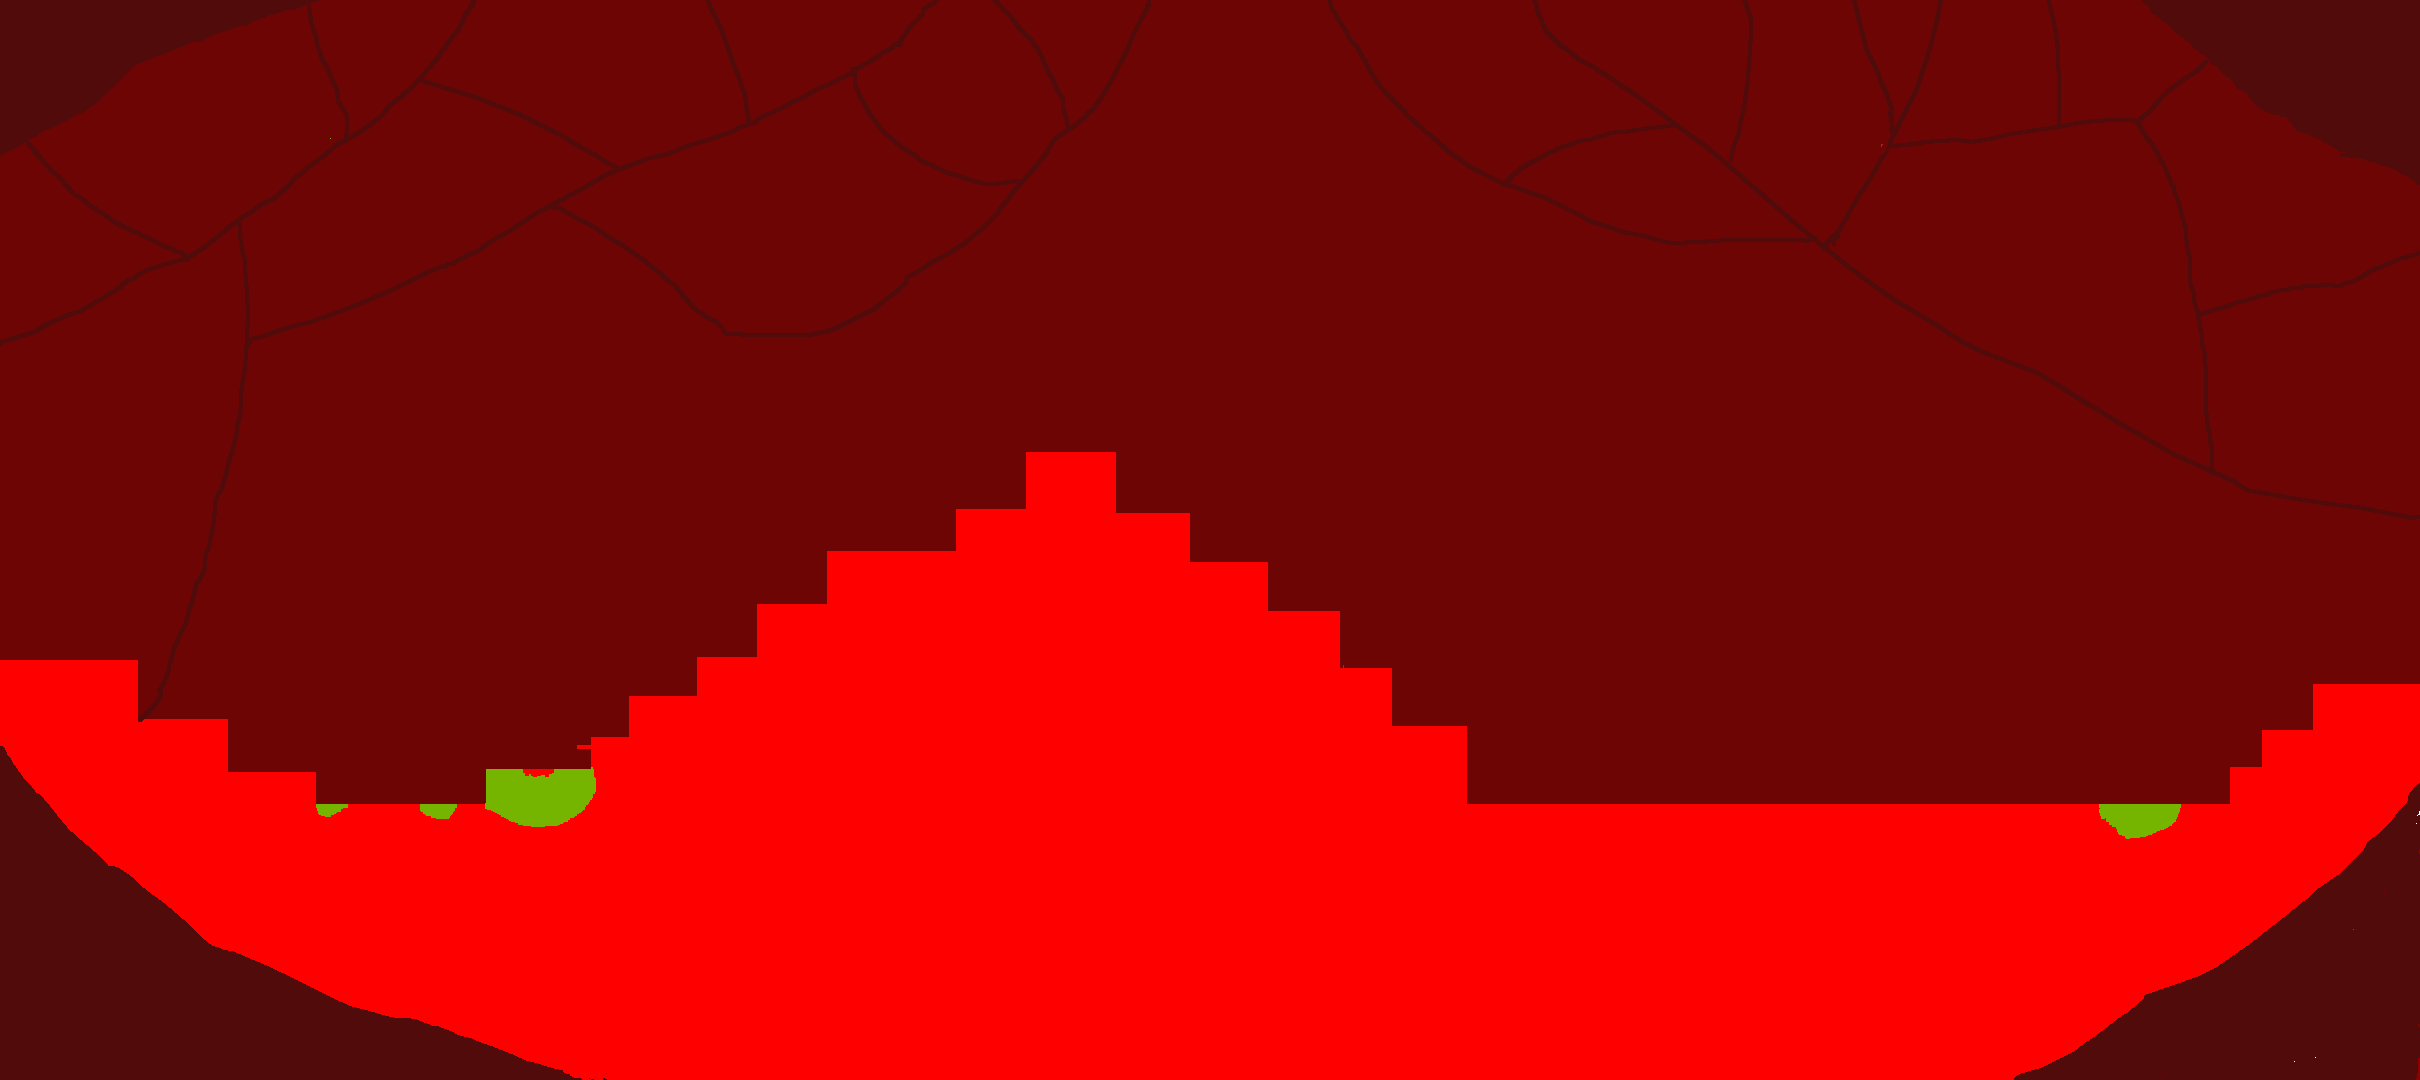
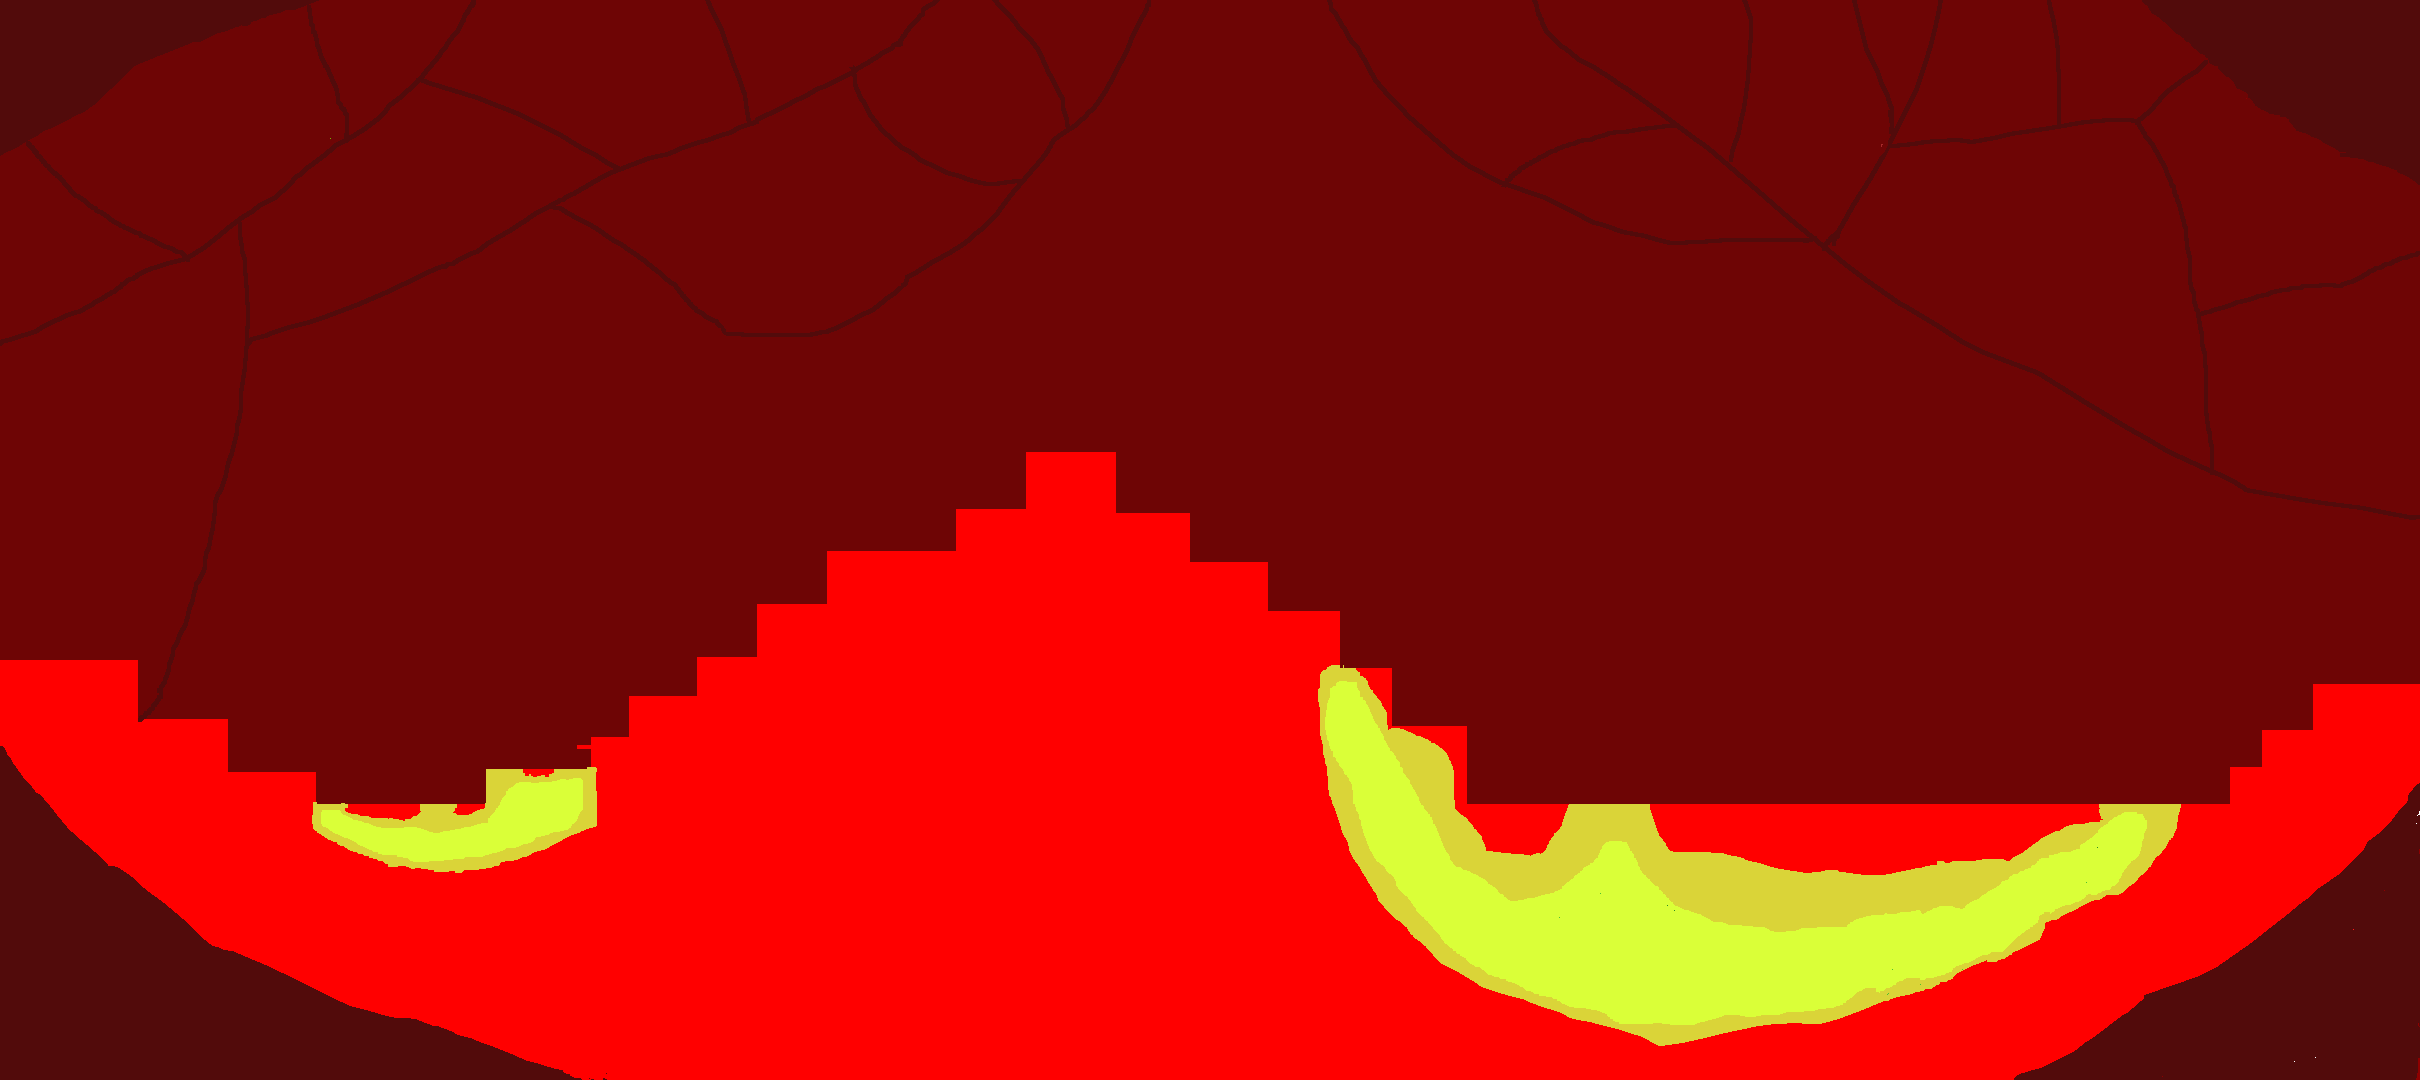
Atualiza projeto: renomeia arquivos e adiciona novas imagens

Changed region(s): [[0.5269, 0.6111, 0.8988, 0.9778], [0.124, 0.7028, 0.2479, 0.825]]

diff --git a/Projeto/Main.c b/Projeto/Main.c
@@ -9,14 +9,14 @@ int TelaInicial(int tela) {
     al_install_mouse();
     al_install_keyboard();
 
-    ALLEGRO_DISPLAY* janela = al_create_display(1920, 1080);
+    ALLEGRO_DISPLAY* janela = al_create_display(1600, 900);
     ALLEGRO_BITMAP* fundo_Inicial = al_load_bitmap("Página_InicialNova.png");
     ALLEGRO_BITMAP* fundoInstr = al_load_bitmap("Página_Instruções.png");
     ALLEGRO_BITMAP* fundoCreditos = al_load_bitmap("Página_creditos.png");
     ALLEGRO_EVENT_QUEUE* fila = al_create_event_queue();
     al_register_event_source(fila, al_get_mouse_event_source());
     al_register_event_source(fila, al_get_keyboard_event_source());
-    al_draw_bitmap(fundo_Inicial, 0, 0, 0);
+    al_draw_scaled_bitmap(fundo_Inicial , 0, 0,1920,1080 , 0, 0, 1600, 900, 0);
     while (!sair) {
         ALLEGRO_EVENT evento;
         while (al_get_next_event(fila, &evento)) {
@@ -31,15 +31,15 @@ int TelaInicial(int tela) {
             }
             if (tela == 0) {
                 if (evento.type == ALLEGRO_EVENT_MOUSE_BUTTON_DOWN) {
-                    if ((evento.mouse.x >= 768 && evento.mouse.x <= 1140) && evento.mouse.y >= 636 && evento.mouse.y <= 812) {
+                    if ((evento.mouse.x >= 645 && evento.mouse.x <= 931) && evento.mouse.y >= 583 && evento.mouse.y <= 701) {
                         sair = true;
-                        tela = 2;
+                        tela = 3;
                     }
-                    if ((evento.mouse.x >= 770 && evento.mouse.x <= 1153) && evento.mouse.y >= 842 && evento.mouse.y <= 928) {
+                    if ((evento.mouse.x >= 642 && evento.mouse.x <= 961) && evento.mouse.y >= 732 && evento.mouse.y <= 804) {
                         tela = 1;
                         al_rest(0.3);
                     }
-                    if ((evento.mouse.x >= 1733 && evento.mouse.x <= 1864) && evento.mouse.y >= 893 && evento.mouse.y <= 1017) {
+                    if ((evento.mouse.x >= 1442 && evento.mouse.x <= 1544) && evento.mouse.y >= 734 && evento.mouse.y <= 845) {
                         tela = 6;
 
                     }
@@ -49,14 +49,14 @@ int TelaInicial(int tela) {
         }
         al_clear_to_color(al_map_rgb(0, 0, 0));
         if (tela == 0)
-            al_draw_bitmap(fundo_Inicial, 0, 0, 0);
+            al_draw_scaled_bitmap(fundo_Inicial, 0, 0, 1920, 1080, 0, 0, 1600, 900, 0);
         else if (tela == 1)
-            al_draw_bitmap(fundoInstr, 0, 0, 0);
+            al_draw_scaled_bitmap(fundoInstr, 0, 0, 1920, 1080, 0, 0, 1600, 900, 0);
         else if (tela == 6)
-            al_draw_bitmap(fundoCreditos, 0, 0, 0);
+            al_draw_scaled_bitmap(fundoCreditos, 0, 0, 1920, 1080, 0, 0, 1600, 900, 0);
         if (tela == 1) {
             if (evento.type == ALLEGRO_EVENT_MOUSE_BUTTON_DOWN) {
-                if ((evento.mouse.x >= 837 && evento.mouse.x <= 1060) && evento.mouse.y >= 841 && evento.mouse.y <= 951) {
+                if ((evento.mouse.x >= 695 && evento.mouse.x <= 876) && evento.mouse.y >= 698 && evento.mouse.y <= 779) {
                     tela = 0;
                     al_rest(0.3);
                 }
@@ -64,7 +64,7 @@ int TelaInicial(int tela) {
         }
         if (tela == 6) {
             if (evento.type == ALLEGRO_EVENT_MOUSE_BUTTON_DOWN) {
-                if ((evento.mouse.x >= 837 && evento.mouse.x <= 1060) && evento.mouse.y >= 841 && evento.mouse.y <= 951) {
+                if ((evento.mouse.x >= 697 && evento.mouse.x <= 876) && evento.mouse.y >= 735 && evento.mouse.y <= 821) {
                     tela = 0;
                     al_rest(0.3);
                 }
@@ -76,34 +76,64 @@ int TelaInicial(int tela) {
     al_destroy_bitmap(fundoInstr);
     al_destroy_event_queue(fila);
     al_destroy_display(janela);
-    if (tela == 2) {
-        return 2;
+    if (tela == 3) {
+        return 3;
     }
     else return 1;
 }
 
-int calcular_chao(int x) {
-    if (x <= 123) return 630;
-    if (x <= 211) return 689;
-    if (x <= 299) return 742;
-    if (x <= 467) return 774;
-    if (x <= 570) return 739;
-    if (x <= 606) return 705;
-    if (x <= 678) return 665;
-    if (x <= 739) return 625;
-    if (x <= 810) return 574;
-    if (x <= 939) return 518;
-    if (x <= 1009) return 479;
-    if (x <= 1102) return 420;
-    if (x <= 1177) return 478;
-    if (x <= 1254) return 532;
-    if (x <= 1327) return 581;
-    if (x <= 1379) return 638;
-    if (x <= 1454) return 696;
-    if (x <= 2215) return 774;
-    if (x <= 2250) return 737;
-    if (x <= 2300) return 700;
-    return 654;
+int calcular_chao(int x,int tela,int y) {
+    if (tela == 2) {
+        if (x <= 123) return 630;
+        if (x <= 211) return 689;
+        if (x <= 299) return 742;
+        if (x <= 467) return 774;
+        if (x <= 570) return 739;
+        if (x <= 606) return 705;
+        if (x <= 678) return 665;
+        if (x <= 739) return 625;
+        if (x <= 810) return 574;
+        if (x <= 939) return 518;
+        if (x <= 1009) return 479;
+        if (x <= 1102) return 420;
+        if (x <= 1177) return 478;
+        if (x <= 1254) return 532;
+        if (x <= 1327) return 581;
+        if (x <= 1379) return 638;
+        if (x <= 1454) return 696;
+        if (x <= 2215) return 774;
+        if (x <= 2250) return 737;
+        if (x <= 2300) return 700;
+        return 654;
+    }
+    if (tela == 3) {
+        if (x >= -8 && x <= 133 && y<= 216)return 216;
+        if (x >= 286 && x <= 496 && y <= 186) return 186;
+        if (x <= 100 && y <= 551) return 551;
+        if (x <= 344 && y <= 366) return 366;
+        if (x <= 322 && y <= 597) return 597;
+        if (x <= 492 && y <= 398) return 398;
+        if (x <= 542 && y <= 403) return 403;
+        if (x >= 486 && x <= 516 && y <= 529 && y >= 400) return 529;
+        if (x >= 324 && x <= 568 && y > 523 && y <= 773) return 773;
+        if (x >= 568 && x <= 938 && y <= 242) return 242;
+        if (x <= 664 && y <= 523) return 523;
+        if (x <= 876 && y <= 483) return 483;
+        if (x <= 704 && y <= 745 && y >523) return 745;
+        if (x <= 766 && y <= 817) return 817;
+        if (x <= 822 && y <= 807) return 807;
+        if (x <= 848 && y <= 789) return 789;
+        if (x >= 962 && x <= 1002 && y <= 222) return 222;
+        if (x <= 1230 && y <=212) return 212;
+        if (x <= 1044 && y <= 473) return 473;
+        if (x <= 988 && y <= 717) return 717;
+        if (x <= 1138 && y <= 653) return 653;
+        if (x <= 1222 && y <= 340) return 340;
+        if (x <= 1236 && y <= 328) return 328;
+        if (x >= 1250 && x <= 1320 && y <= 318)return 318;
+        if (x <= 1344 && y <= 569) return 569;
+        if (x <= 1456 && y <= 557) return 557;
+    }
 }
 int Colisao_Left(int x, int y, int v) {
     int novo_x = x;
@@ -143,7 +173,7 @@ int Colisao_Right(int x, int y, int v) {
 
 struct Posicaopersonagem
 {
-    int x, y, gravidade;
+    int x, y, gravidade,vida;
     int v[2];
 };
 struct Posicaofundo
@@ -153,9 +183,9 @@ struct Posicaofundo
 };
 int Telaestomago(int tela) {
     struct Posicaopersonagem p;
-    p.x = 20; p.y = 630; p.v[0] = 4; p.v[1] = 0; p.gravidade = 5;
+    p.x = 20; p.y = 630; p.v[0] = 4; p.v[1] = 0; p.gravidade = 5; p.vida = 3;
     struct Posicaofundo f;
-    f.width = 0;f.height = 0; f.no_chao = true; f.chao = 630; f.movimento = 0;
+    f.width = 0; f.height = 0; f.no_chao = true; f.chao = 630; f.movimento = 0;
     bool right = false, left = false, up = false;
     int x_mapa = p.x;
     int sair = 1;
@@ -166,14 +196,18 @@ int Telaestomago(int tela) {
     al_install_keyboard();
 
     ALLEGRO_EVENT_QUEUE* fila_eventos = al_create_event_queue();
-    ALLEGRO_DISPLAY* janela = al_create_display(1900, 1080);
+    ALLEGRO_DISPLAY* janela = al_create_display(1600, 900);
     ALLEGRO_BITMAP* fundo = al_load_bitmap("tela1.png");
+    ALLEGRO_BITMAP* life = al_load_bitmap("life.png");
     ALLEGRO_BITMAP* personagem = al_load_bitmap("personagem.png");
+    ALLEGRO_BITMAP* NPC = al_load_bitmap("NPCtela1.png");
+    ALLEGRO_BITMAP* movimentoleft = al_load_bitmap("personagemleft.png");
+    ALLEGRO_BITMAP* movimentoright = al_load_bitmap("personagemright.png");
     ALLEGRO_TIMER* timer = al_create_timer(2.0 / 60);
 
     al_register_event_source(fila_eventos, al_get_keyboard_event_source());
     al_register_event_source(fila_eventos, al_get_timer_event_source(timer));
-    al_draw_bitmap(fundo, f.width, f.height, 0);
+    al_draw_scaled_bitmap(personagem, f.width, f.no_chao, 1920, 1080, 0, 0, 1600, 900, 0);
     al_draw_bitmap(personagem, p.x, p.y, 0);
     al_start_timer(timer);
     while (tela == 2) {
@@ -189,9 +223,14 @@ int Telaestomago(int tela) {
             switch (evento.keyboard.keycode) {
             case ALLEGRO_KEY_LEFT: left = true; break;
             case ALLEGRO_KEY_RIGHT: right = true; break;
+            case ALLEGRO_KEY_A: left = true; break;
+            case ALLEGRO_KEY_D: right = true; break;
             case ALLEGRO_KEY_UP:up = true; break;
+            case ALLEGRO_KEY_W:up = true; break;
             case ALLEGRO_KEY_ESCAPE: tela = 1; break;
             case ALLEGRO_KEY_ENTER:
+                if (x_mapa >= 2350 && x_mapa<=600)
+                    printf("%d", p.x);
                 if (x_mapa >= 2350)tela = 3;
             }
         }
@@ -200,6 +239,9 @@ int Telaestomago(int tela) {
             case ALLEGRO_KEY_LEFT: left = false; break;
             case ALLEGRO_KEY_RIGHT: right = false; break;
             case ALLEGRO_KEY_UP:up = false; break;
+            case ALLEGRO_KEY_W:up = false; break;
+            case ALLEGRO_KEY_A: left = false; break;
+            case ALLEGRO_KEY_D: right = false; break;
             }
         }
         //eixo X
@@ -207,7 +249,7 @@ int Telaestomago(int tela) {
             int colisao = Colisao_Left(x_mapa, p.y, p.v[0]);
             if (colisao != x_mapa) {
                 x_mapa = colisao;
-                if (x_mapa >= 960 && x_mapa <= 1460)
+                if (x_mapa >= 960 && x_mapa <= 1700)
                     f.width += p.v[0];
                 else
                     p.x -= p.v[0];
@@ -218,7 +260,7 @@ int Telaestomago(int tela) {
             int colisao = Colisao_Right(x_mapa, p.y, p.v[0]);
             if (colisao != x_mapa) {
                 x_mapa = colisao;
-                if (x_mapa >= 960 && x_mapa <= 1460)
+                if (x_mapa >= 960 && x_mapa <= 1770)
                     f.width -= p.v[0];
                 else
                     p.x += p.v[0];
@@ -228,7 +270,7 @@ int Telaestomago(int tela) {
 
 
         // eixo Y
-        f.chao = calcular_chao(x_mapa);
+        f.chao = calcular_chao(x_mapa, tela,p.y);
         if (up && f.no_chao) {
             p.v[1] = -15;
             f.no_chao = false;
@@ -241,42 +283,116 @@ int Telaestomago(int tela) {
             p.v[1] = 0;
             f.no_chao = true;
         }
+        
         al_clear_to_color(al_map_rgb(0, 0, 0));
         al_draw_bitmap(fundo, f.width, f.height, 0);
-        al_draw_bitmap(personagem, p.x, p.y, 0);
+        for (int i = 0; i < p.vida; i++) {
+            al_draw_bitmap(life, 20+i*60,60, 0);
+        }
+       
+        if (left) {
+            al_draw_bitmap(movimentoleft, p.x, p.y, 0);
+        }
+        else {
+            if (right) {
+                al_draw_bitmap(movimentoright, p.x, p.y, 0);
+            }
+            else {
+                al_draw_bitmap(personagem, p.x, p.y, 0);
+            }
+            
+        }
+        al_draw_scaled_bitmap(NPC, 0 , 0, 612, 408, 420+f.width, 770, 40, 40, 0);
         al_flip_display();
     }
     al_destroy_timer(timer);
     al_destroy_bitmap(personagem);
+    al_destroy_bitmap(NPC);
     al_destroy_event_queue(fila_eventos);
     al_destroy_display(janela);
     return tela;
 }
 int Tela2(int tela) {
-    ALLEGRO_DISPLAY* janela = al_create_display(1920, 1080);
-    ALLEGRO_BITMAP* fundo_Inicial = al_load_bitmap("Fase 2.png");
+    int chao = 216; bool no_chao = false;
+    struct Posicaopersonagem p;
+    p.x = 0; p.y = chao; p.v[0] = 2; p.v[1] = -2; p.gravidade = 5; p.vida = 3;
+    bool right = false, left = false, up = false; bool down = false;
+    ALLEGRO_DISPLAY* janela = al_create_display(1600, 900);
+    ALLEGRO_BITMAP* fundo2 = al_load_bitmap("fase2.png");
+    ALLEGRO_BITMAP* personagem = al_load_bitmap("personagem.png");
+    ALLEGRO_BITMAP* movimentoleft = al_load_bitmap("personagemleft.png");
+    ALLEGRO_BITMAP* movimentoright = al_load_bitmap("personagemright.png");
     ALLEGRO_EVENT_QUEUE* fila = al_create_event_queue();
     al_register_event_source(fila, al_get_keyboard_event_source());
+    ALLEGRO_TIMER* timer = al_create_timer(1.0 / 60);
     al_register_event_source(fila, al_get_mouse_event_source());
-    al_draw_bitmap(fundo_Inicial, 0, 0, 0);
+    al_register_event_source(fila, al_get_timer_event_source(timer));
+    al_draw_bitmap(fundo2, 0, 0, 0);
+    al_draw_bitmap(personagem, p.x, p.y, 0);
+    al_start_timer(timer);
     while (tela == 3) {
-        ALLEGRO_EVENT evento;
-        while (al_get_next_event(fila, &evento)) {
+            ALLEGRO_EVENT evento;
 
+            al_wait_for_event(fila, &evento);
+            if (evento.type == ALLEGRO_EVENT_DISPLAY_CLOSE) {
+                tela = 1;
+            }
             if (evento.type == ALLEGRO_EVENT_KEY_DOWN) {
-                if (evento.keyboard.keycode == ALLEGRO_KEY_ESCAPE) {//se esc for apertado esse if fechará o jogo
-                    tela = 1;
+                switch (evento.keyboard.keycode) {
+                case ALLEGRO_KEY_LEFT: left = true; break;
+                case ALLEGRO_KEY_RIGHT: right = true; break;
+                case ALLEGRO_KEY_A: left = true; break;
+                case ALLEGRO_KEY_D: right = true; break;
+                case ALLEGRO_KEY_DOWN:down = true; break;
+                case ALLEGRO_KEY_UP:up = true; break;
+                case ALLEGRO_KEY_W:up = true; break;
+                case ALLEGRO_KEY_ESCAPE: tela = 1; break;
+                case ALLEGRO_KEY_ENTER: printf("x = %d y = %d",p.x,p.y );
                 }
             }
-            if (tela == 3) {
-                if (evento.type == ALLEGRO_EVENT_MOUSE_BUTTON_DOWN) {
-                    tela = 4;
+            else if (evento.type == ALLEGRO_EVENT_KEY_UP) {
+                switch (evento.keyboard.keycode) {
+                case ALLEGRO_KEY_LEFT: left = false; break;
+                case ALLEGRO_KEY_RIGHT: right = false; break;
+                case ALLEGRO_KEY_UP:up = false; break;
+                case ALLEGRO_KEY_W:up = false; break;
+                case ALLEGRO_KEY_DOWN:down = false; break;
+                case ALLEGRO_KEY_A: left = false; break;
+                case ALLEGRO_KEY_D: right = false; break;
                 }
             }
-        }
-        al_flip_display();
-    }
-    al_destroy_bitmap(fundo_Inicial);
+            if (left)  p.x -= p.v[0];
+            if (right) p.x += p.v[0];
+            chao = calcular_chao(p.x,tela,p.y);
+          
+            if (up && no_chao) {
+                p.v[1] = -15;
+                no_chao = false;
+            }
+            p.v[1] += 1;
+            p.y += p.v[1];
+
+            if (p.y >= chao) {
+                p.y = chao;
+                p.v[1] = 0;
+                no_chao = true;
+            }
+           al_draw_scaled_bitmap(fundo2, 0, 0, 872, 606, 0, 0, 1600, 900, 0);
+           if (left) {
+               al_draw_bitmap(movimentoleft, p.x, p.y, 0);
+           }
+           else {
+               if (right) {
+                   al_draw_bitmap(movimentoright, p.x, p.y, 0);
+               }
+               else {
+                   al_draw_bitmap(personagem, p.x, p.y, 0);
+               }
+
+           }
+         al_flip_display();
+      }
+    al_destroy_bitmap(fundo2);
     al_destroy_event_queue(fila);
     al_destroy_display(janela);
     return tela;
@@ -360,4 +476,5 @@ int main() {
         }
     }
 }
+
 
